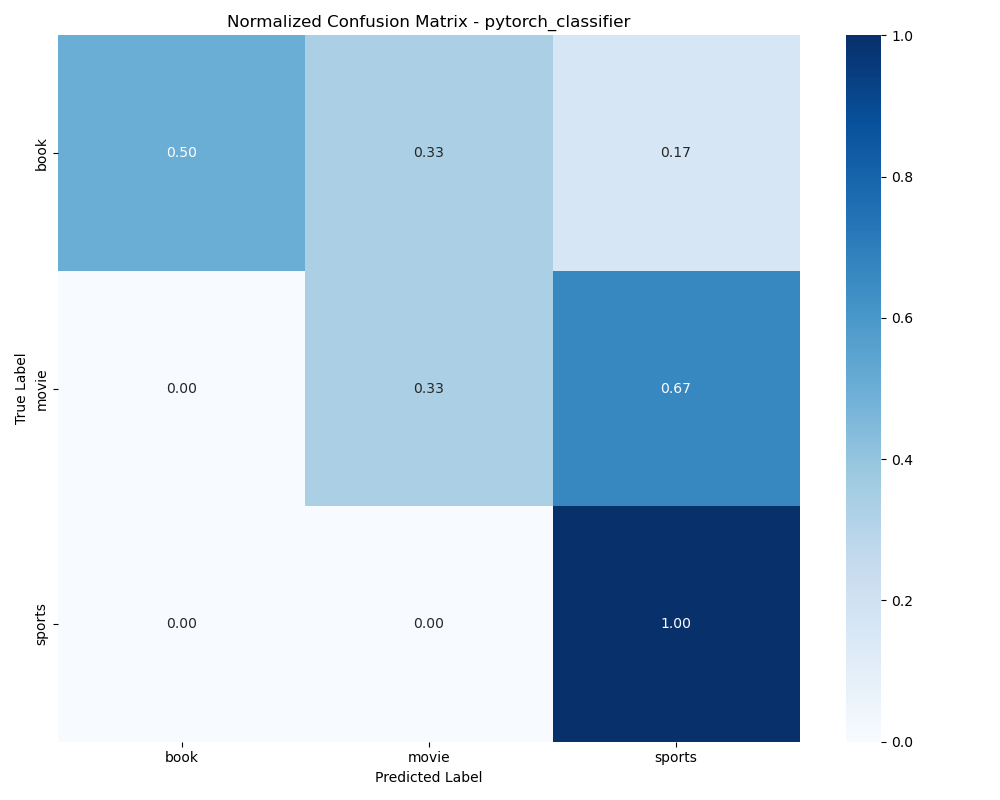
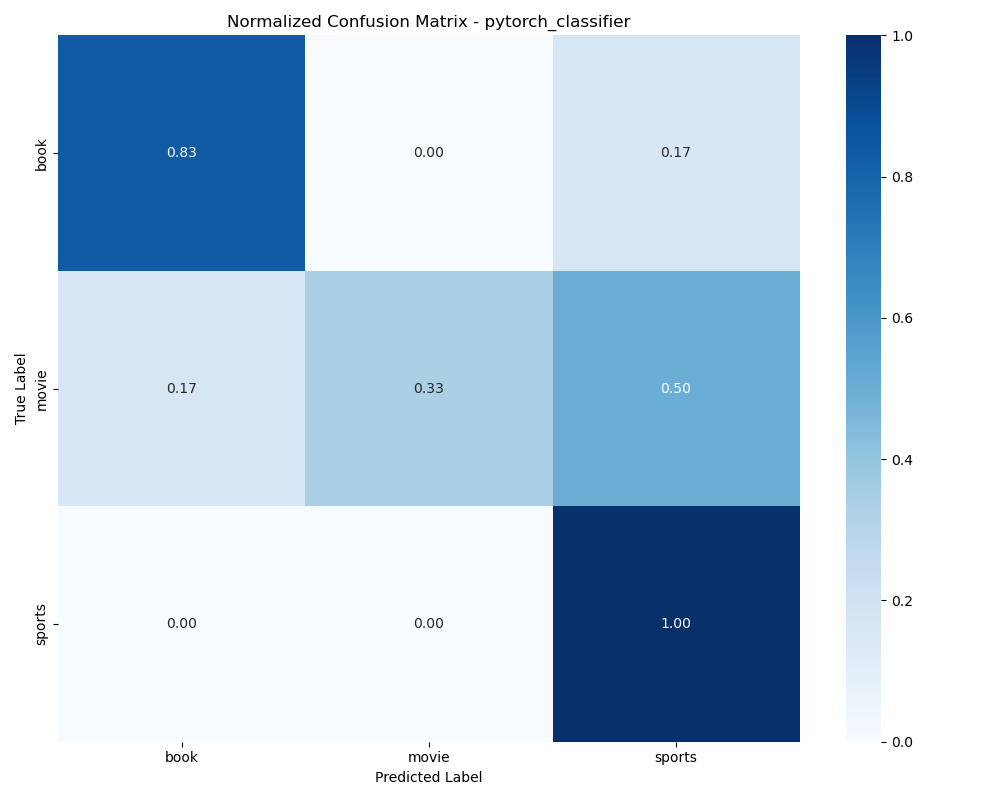
tokenization

Changed region(s): [[0.031, 0.0312, 0.806, 0.6562]]

diff --git a/src/topic_classification/training_data.py b/src/topic_classification/training_data.py
@@ -291,3 +291,82 @@ class TrainingDataConstructor:
         plt.show()
 
         return stats
+
+    def tokenize_text(
+        self, data: pd.DataFrame, text_column: str = "review_text"
+    ) -> pd.DataFrame:
+        """
+        Tokenize text data in preparation for TF-IDF vectorization.
+
+        Args:
+            data: DataFrame containing text data
+            text_column: Name of the column containing text to tokenize
+
+        Returns:
+            DataFrame with additional 'tokens' column containing tokenized text
+        """
+        import nltk
+        from nltk.tokenize import word_tokenize
+        from nltk.corpus import stopwords
+        from nltk.stem import WordNetLemmatizer
+
+        # Download necessary NLTK resources if not already available
+        try:
+            nltk.data.find("tokenizers/punkt")
+        except LookupError:
+            nltk.download("punkt")
+
+        try:
+            nltk.data.find("corpora/stopwords")
+        except LookupError:
+            nltk.download("stopwords")
+
+        try:
+            nltk.data.find("corpora/wordnet")
+        except LookupError:
+            nltk.download("wordnet")
+
+        print("Tokenizing text data...")
+
+        # Initialize lemmatizer and stopwords
+        lemmatizer = WordNetLemmatizer()
+        stop_words = set(stopwords.words("english"))
+
+        def process_text(text):
+            if not isinstance(text, str):
+                return []
+
+            # Convert to lowercase
+            text = text.lower()
+
+            # Tokenize
+            tokens = word_tokenize(text)
+
+            # Remove stopwords and punctuation, lemmatize
+            tokens = [
+                lemmatizer.lemmatize(token)
+                for token in tokens
+                if token.isalpha() and token not in stop_words
+            ]
+
+            return tokens
+
+        # Apply tokenization to the text column
+        data["tokens"] = data[text_column].apply(process_text)
+
+        # Print sample of tokenized text
+        if len(data) > 0:
+            print("\nSample tokenization:")
+            sample_idx = min(5, len(data) - 1)
+            sample_text = data[text_column].iloc[sample_idx]
+            if len(sample_text) > 100:
+                sample_text = sample_text[:100] + "..."
+            sample_tokens = data["tokens"].iloc[sample_idx][:10]
+            print(f"Original: {sample_text}")
+            print(f"Tokenized: {sample_tokens}")
+            if len(data["tokens"].iloc[sample_idx]) > 10:
+                print("...")
+
+        print(f"Tokenization complete. Added 'tokens' column to DataFrame.")
+
+        return data
